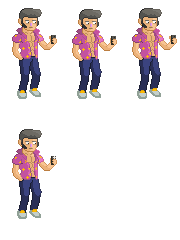
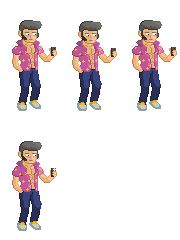
Arreglados sprites para que estén a la misma altura

diff --git a/HolaSDL/PlayState.cpp b/HolaSDL/PlayState.cpp
@@ -44,8 +44,8 @@ void PlayState::newGame()
 	songBarBG = new BarBackground(manager, 1, 14, Vector2D(50, 35), (((manager->getWindowWidth() - 50) / level->songLength) / 70.5), Resources::YellowBar); //70.5 es la constante para ajustar la velocidad de la barra al tiempo de la cancion
 	songBar = new SongBar(manager, 18, 22, Vector2D(41, 31), Vector2D((((manager->getWindowWidth() / level->songLength)) / 70.5), 0), songBarBG);
 
-	perico = new Character(manager, 60 * 3.5, 120 * 3.5, Vector2D(75, initialNoteHeight + 30 + 70), Resources::PericoIdle);
-	robot = new Character(manager, 60 * 3.5, 120 * 3.5, Vector2D(manager->getWindowWidth() - 270, initialNoteHeight - 29 + 70), Resources::RobotIdle);
+	perico = new Character(manager, 60 * 3.5, 120 * 3.5, Vector2D(75, initialNoteHeight + 70), Resources::PericoIdle);
+	robot = new Character(manager, 60 * 3.5, 120 * 3.5, Vector2D(manager->getWindowWidth() - 270, initialNoteHeight + 70), Resources::RobotIdle);
 	leftNoteBar = new Squares(manager, noteBarWidth, 465 + 0.6 * pointSize, Vector2D(leftNotesPos + 1 - noteBarWidth / 2, leftNotesVector.getY()));
 	rightNoteBar = new Squares(manager, noteBarWidth, 465 + 0.6 * pointSize, Vector2D(rightNotesPos + 1 - noteBarWidth / 2, rightNotesVector.getY()));
 	
